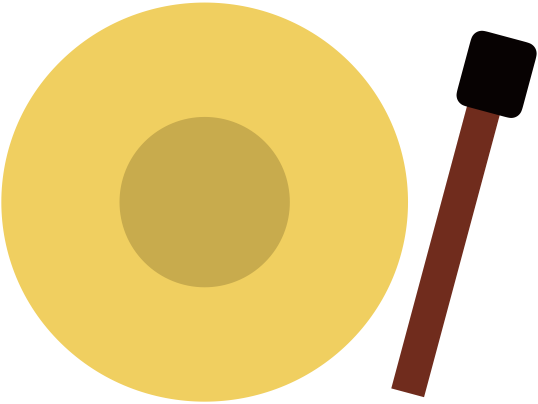
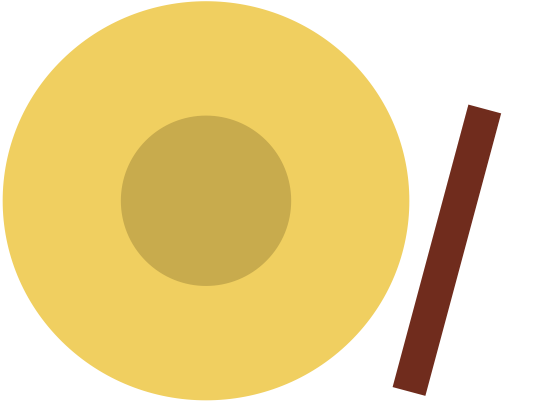
Auto commit

diff --git a/app/components/utils/ColorModeToggle.vue b/app/components/utils/ColorModeToggle.vue
@@ -14,7 +14,7 @@ function toggleDarkMode(checked: boolean) {
 <template>
   <div class="flex items-center space-x-2">
     <ClientOnly>
-      <i class="ri-sun-line text-muted-foreground" :class="{ 'text-foreground': !isDark }" />
+      <i class="ri-sun-line" :class="{ 'text-foreground': !isDark }" />
 
       <Switch
           id="dark-mode"
@@ -22,7 +22,7 @@ function toggleDarkMode(checked: boolean) {
           @update:model-value="toggleDarkMode"
       />
 
-      <i class="ri-moon-line text-muted-foreground" :class="{ 'text-foreground': isDark }" />
+      <i class="ri-moon-line" :class="{ 'text-foreground': isDark }" />
 
     </ClientOnly>
     <Label for="dark-mode">Dark Mode</Label>

diff --git a/app/pages/app/home.vue b/app/pages/app/home.vue
@@ -9,13 +9,15 @@ definePageMeta({
 })
 
 const auth = useAuthStore()
+const colorMode = useColorMode()
+const isDark = computed(() => colorMode.value === 'dark')
 
 </script>
 
 <template>
   <Card class="relative mx-auto w-[80vw] h-[80vh]">
     <CardHeader class="flex flex-col items-center gap-6">
-      <img src="../../public/gongboard.png" alt="Logo" class="h-20 w-120" />
+      <img src="../../public/gongboard_dark.png.png" alt="Logo" class="h-20 w-120" />
       <CardTitle class="text-primary text-center text-3xl font-medium">
         Welcome back<span v-if="auth.user?.name">, {{ auth.user.name }}</span>
       </CardTitle>

diff --git a/app/layouts/home.vue b/app/layouts/home.vue
@@ -10,10 +10,6 @@ import ColorModeToggle from "~/components/utils/ColorModeToggle.vue";
               dark:bg-[linear-gradient(to_right,#1f2937_1px,transparent_1px),linear-gradient(to_bottom,#1f2937_1px,transparent_1px)]
               bg-[size:6rem_4rem]">
 
-    <div class="absolute top-6 right-6 z-50">
-      <ColorModeToggle />
-    </div>
-
     <div class="absolute bottom-0 left-0 right-0 top-0
                 bg-[radial-gradient(circle_500px_at_50%_200px,rgba(234,179,8,0.05),transparent)]
                 dark:bg-[radial-gradient(circle_500px_at_50%_200px,rgba(234,179,8,0.15),transparent)]"></div>

diff --git a/app/pages/auth/login.vue b/app/pages/auth/login.vue
@@ -42,7 +42,7 @@ const onSubmit = form.handleSubmit(async (values) => {
 <template>
   <div class="mx-auto grid gap-6">
     <div class="grid gap-2 text-center">
-      <img src="../../public/gongboard.png" alt="Logo" class="block mx-auto h-28 w-full" />
+      <img src="../../public/gongboard_dark.png" alt="Logo" class="block mx-auto h-28 w-full" />
       <h1 class="text-3xl font-bold">Login</h1>
       <p class="text-balance text-muted-foreground">
         Enter your email below to login to your account

diff --git a/app/layouts/base.vue b/app/layouts/base.vue
@@ -1,6 +1,7 @@
 <!-- layouts/base.vue -->
 <script setup lang="ts">
 import NotificationComponent from "@/components/utils/NotificationComponent.vue";
+import ColorModeToggle from "~/components/utils/ColorModeToggle.vue";
 
 const route = useRoute();
 
@@ -10,6 +11,7 @@ useHead(() => ({
 </script>
 
 <template>
+  <ColorModeToggle class="absolute bottom-6 left-6 z-50" />
   <slot></slot>
   <NotificationComponent />
 </template>
